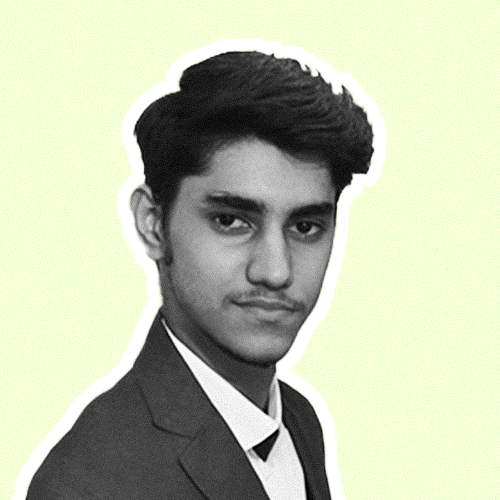
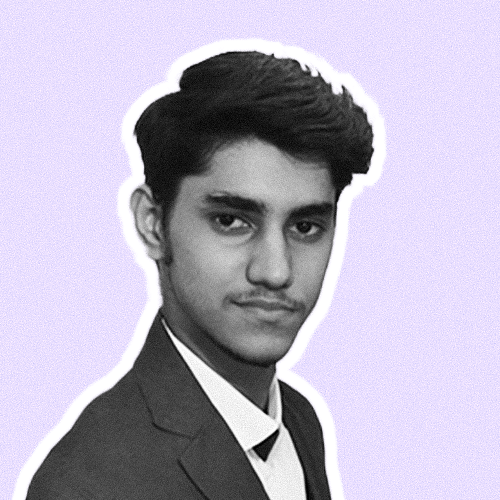
rebranded

diff --git a/src/app/styles/styles.js b/src/app/styles/styles.js
@@ -1,8 +1,9 @@
 import styled from "styled-components";
 
 //!Colors
-const DarkLime = "#465d00";
-const LightLime = "#f5ffd7";
+const Dark = "#391a7b";
+const Light = "#e9dfff";
+const TextLight = "#fcfbff";
 
 const MaxWidth = styled.div`
   max-width: 1600px;
@@ -13,7 +14,7 @@ const MaxWidth = styled.div`
 const LogoText = styled.h1`
   font-size: 1.5rem;
   font-weight: 800;
-  color: ${DarkLime};
+  color: ${Dark};
 `;
 
 //!Wrappers Styles
@@ -33,7 +34,7 @@ const PageWrapper = styled(MaxWidth)`
 
 //!Heading Styles
 const MainH1Title = styled.h1`
-  color: ${DarkLime};
+  color: ${Dark};
   font-size: 6rem;
   /* text-transform: uppercase; */
   font-weight: 600;
@@ -49,7 +50,7 @@ const MainH1Title = styled.h1`
 `;
 
 const H1Title = styled.h1`
-  color: ${DarkLime};
+  color: ${Dark};
   font-size: 6rem;
   font-weight: 600;
   padding: 5rem;
@@ -65,7 +66,7 @@ const H1Title = styled.h1`
 
 //!Paragraph & Text Styles
 const ParaBig = styled.p`
-  color: ${DarkLime};
+  color: ${Dark};
   font-size: 1.5rem;
   line-height: 1;
   font-weight: 500;
@@ -81,7 +82,7 @@ const ParaBig = styled.p`
 
 const ParaMid = styled(ParaBig)`
   font-size: 1.2rem;
-  color: ${LightLime};
+  color: ${TextLight};
   font-weight: 500;
   line-height: 1.15;
 
@@ -129,7 +130,7 @@ const ChildContainer = styled(Center)`
 `;
 
 const Box = styled(Center)`
-  background-color: ${DarkLime};
+  background-color: ${Dark};
   padding: 1.5rem;
   border-radius: 2rem;
   gap: 1rem;
@@ -145,12 +146,12 @@ const Box = styled(Center)`
 //!Buttons Styles
 const StyledConnectButton = styled.button`
   padding: 0.8rem 1.8rem;
-  color: ${LightLime};
+  color: ${TextLight};
   cursor: pointer;
   border-radius: 4rem;
   font-family: inherit;
   border: none;
-  background-color: ${DarkLime};
+  background-color: ${Dark};
   font-size: 1.5rem;
   font-weight: 500;
 `;
@@ -174,7 +175,7 @@ const ScrollToTopButtonWrapper = styled.button`
   position: fixed;
   bottom: 20px;
   right: 20px;
-  background-color: ${DarkLime};
+  background-color: ${Dark};
   border: none;
   border-radius: 5rem;
   width: 50px;
@@ -193,7 +194,7 @@ const StyledNav = styled.nav`
   padding: 1rem;
   z-index: 98;
   position: fixed;
-  background-color: ${LightLime};
+  background-color: ${Light};
 `;
 
 const NavBarContainer = styled(Center)`
@@ -205,7 +206,7 @@ const NavLinkForIcon = styled.div`
 `;
 
 const NavLinkText = styled.div`
-  color: ${DarkLime};
+  color: ${Dark};
   font-weight: 600;
   cursor: pointer;
 `;
@@ -260,7 +261,7 @@ const StyledFooter = styled(StyledNav)`
 `;
 
 const FooterPara = styled.p`
-  color: ${DarkLime};
+  color: ${Dark};
   font-size: 1rem;
   line-height: 1;
   font-weight: 500;

diff --git a/src/app/components/Header.js b/src/app/components/Header.js
@@ -59,13 +59,13 @@ export default function Header() {
                   alt="Profile Photo"
                   style={{
                     borderRadius: "5rem",
-                    border: "#465d00 5px solid",
+                    border: "#391a7b 5px solid",
                   }}
                 />
               </div>
               <ChildContainer style={{ alignItems: "flex-start" }}>
-                <ParaSm style={{ color: "#465d00" }}>Wajid Siddiqi</ParaSm>
-                <ParaSm style={{ opacity: 0.5, color: "#465d00" }}>
+                <ParaSm style={{ color: "#391a7b" }}>Wajid Siddiqi</ParaSm>
+                <ParaSm style={{ opacity: 0.5, color: "#391a7b" }}>
                   Web 3.0 Developer
                 </ParaSm>
               </ChildContainer>
@@ -86,7 +86,7 @@ export default function Header() {
                   padding: "0",
                   alignItems: "center",
                   justifyContent: "center",
-                  backgroundColor: "#465d00",
+                  backgroundColor: "#391a7b",
                 }}
               >
                 <CenterSpaceAround style={{ flexDirection: "column" }}>
@@ -95,7 +95,7 @@ export default function Header() {
                     style={{ textDecoration: "none" }}
                     onClick={handleMenuClose}
                   >
-                    <NavLinkText style={{ color: "#f5ffd7" }}>Home</NavLinkText>
+                    <NavLinkText style={{ color: "#fcfbff" }}>Home</NavLinkText>
                   </NextLink>
 
                   <ScrollLink
@@ -104,7 +104,7 @@ export default function Header() {
                     duration={500}
                     onClick={handleMenuClose}
                   >
-                    <NavLinkText style={{ color: "#f5ffd7" }}>
+                    <NavLinkText style={{ color: "#fcfbff" }}>
                       Skills
                     </NavLinkText>
                   </ScrollLink>
@@ -115,7 +115,7 @@ export default function Header() {
                     duration={500}
                     onClick={handleMenuClose}
                   >
-                    <NavLinkText style={{ color: "#f5ffd7" }}>
+                    <NavLinkText style={{ color: "#fcfbff" }}>
                       Projects
                     </NavLinkText>
                   </ScrollLink>

diff --git a/src/app/styles/global.css b/src/app/styles/global.css
@@ -10,7 +10,7 @@ a {
 }
 
 body {
-  background-color: #f5ffd7;
+  background-color: #e9dfff;
   text-align: center;
 }
 
@@ -23,10 +23,10 @@ body::-webkit-scrollbar {
 }
 
 body::-webkit-scrollbar-track {
-  background: #f5ffd7;
+  background: #e9dfff;
 }
 
 body::-webkit-scrollbar-thumb {
   border-radius: 20px;
-  background: #465d00;
+  background: #391a7b;
 }
